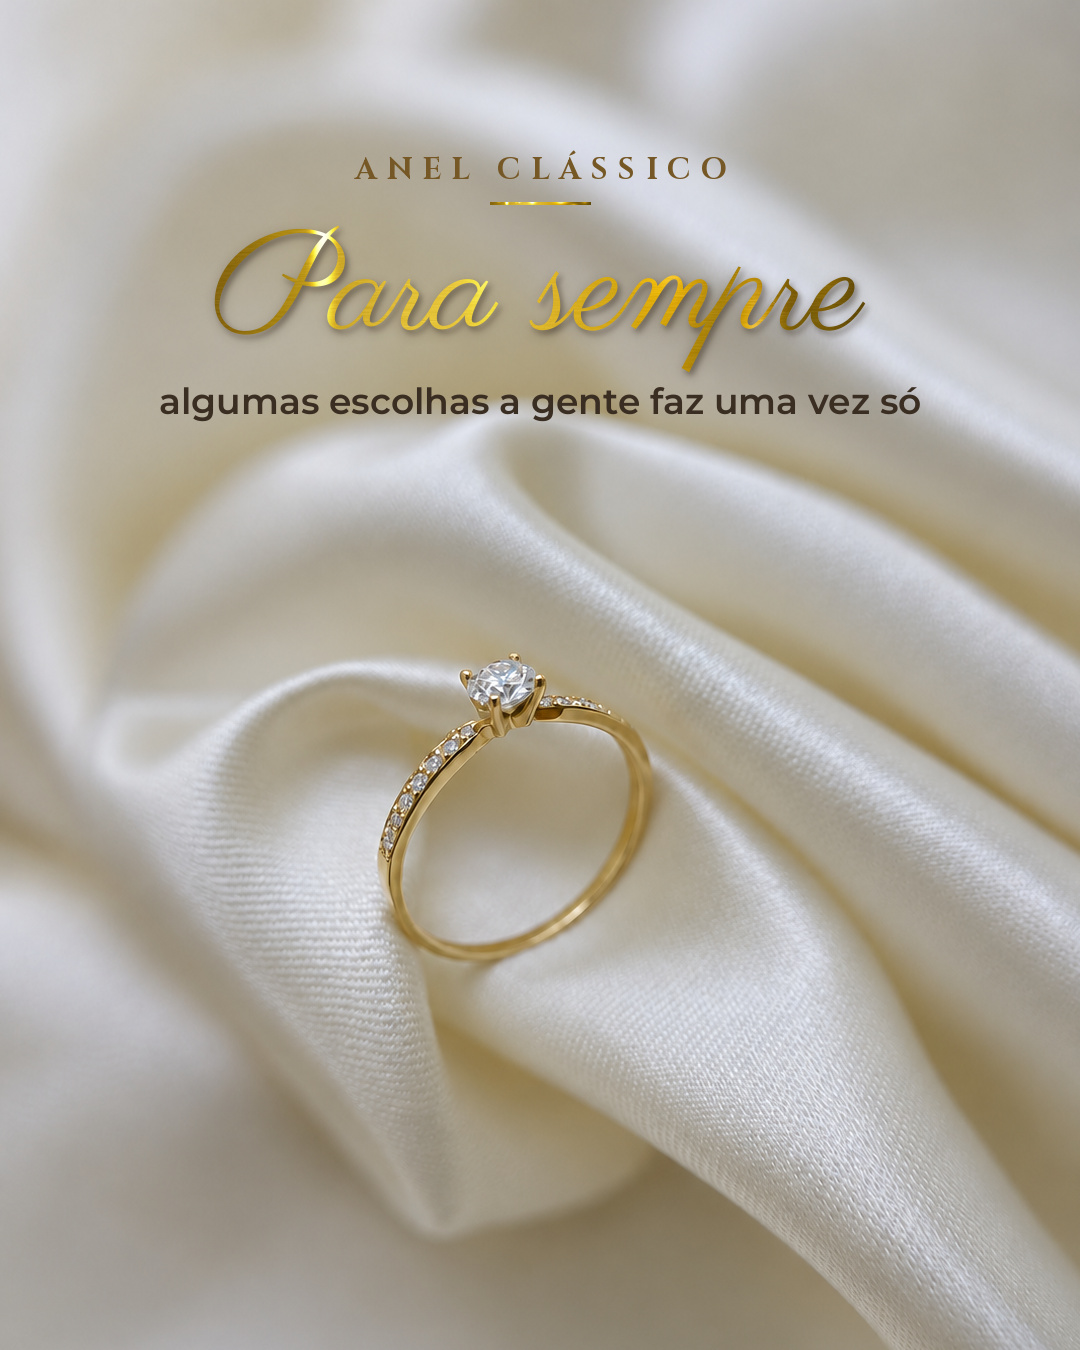
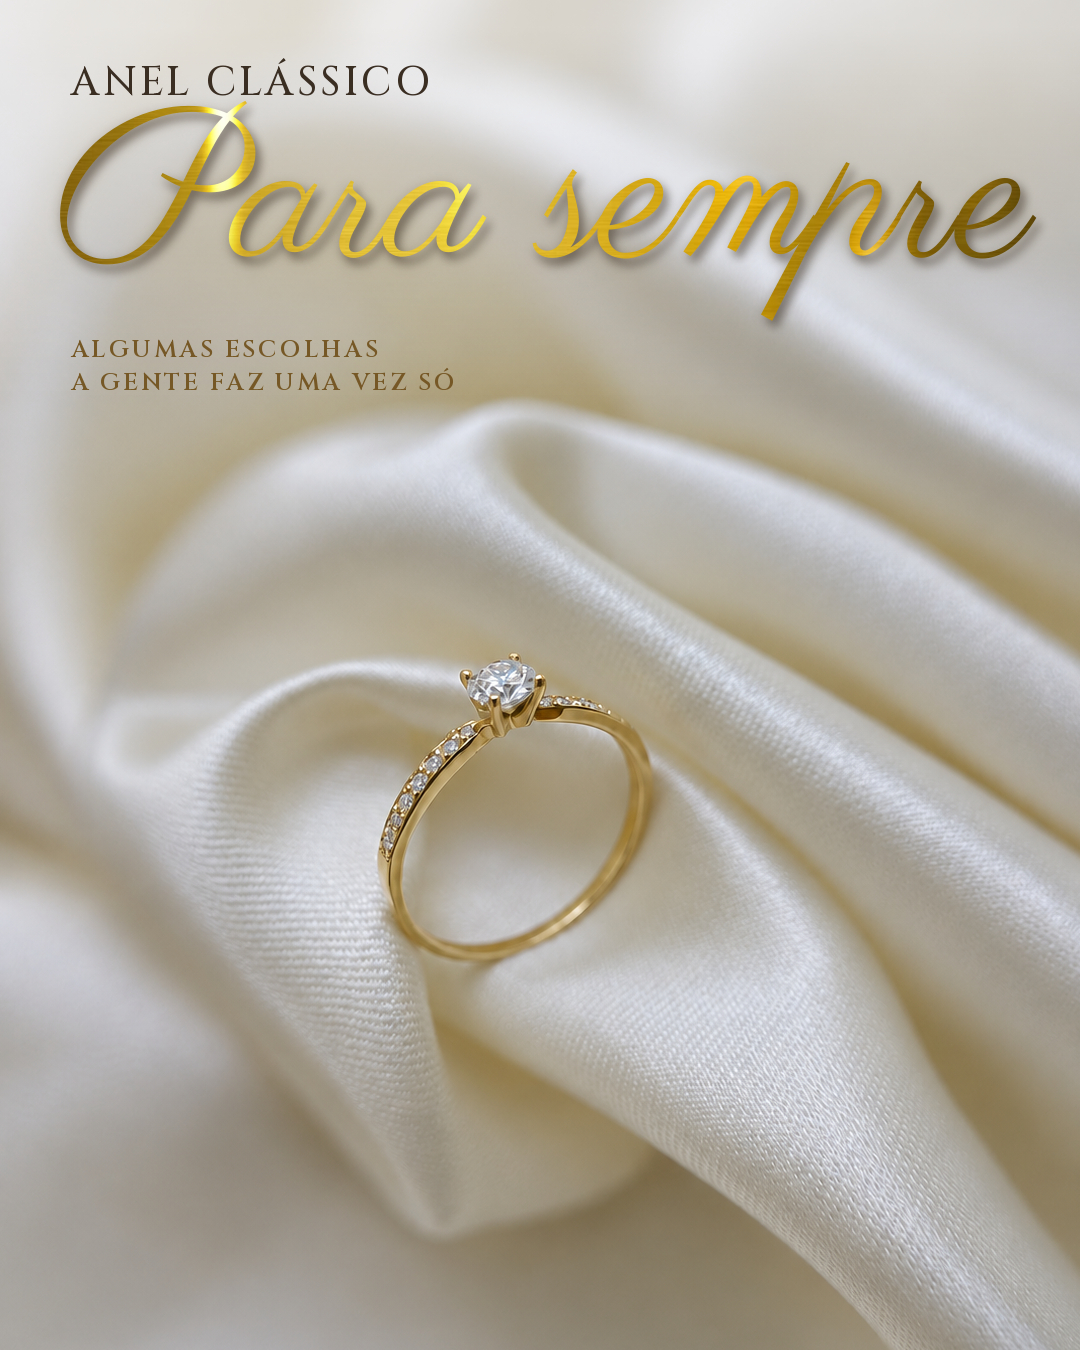
Anel clássico: padrão aprovado (Cinzel à esquerda + Parisienne grande com textura), fotos só recortadas
Claude-Session: https://claude.ai/code/session_01RLP9fKwVsDi588D8MrznBA

Changed region(s): [[0.0, 0.0, 1.0, 0.3111]]

diff --git a/anel-classico/anel_classico.py b/anel-classico/anel_classico.py
@@ -25,13 +25,29 @@ def rule(im, y, half=50):
     m = Image.new('L', im.size, 0); ImageDraw.Draw(m).line([(im.width / 2 - half, y), (im.width / 2 + half, y)], fill=255, width=3); im.alpha_composite(gold_fill(m))
 
 
-def photo_slide(name, kicker, script, line, top=150):
+M = 64
+
+
+def band_top(im, a0=0.02, a1=0.30, strength=0.6):
+    """Approved light ivory band from the top (as in the Helena post) so the gold reads."""
+    import numpy as np
+    yy = np.arange(H, dtype=np.float32)[:, None] / H
+    a = np.clip((a1 - yy) / (a1 - a0), 0, 1) ** 1.2 * strength
+    lay = Image.new('RGBA', (W, H), (250, 248, 244, 0)); lay.putalpha(Image.fromarray((np.broadcast_to(a, (H, W)) * 255).astype('uint8')))
+    im.alpha_composite(lay)
+
+
+def photo_slide(name, caps, script, phrase, size=210):
+    """Approved feed composition: Cinzel caps left-aligned right above the big Parisienne word, one block."""
     src = Image.open(D + name).convert('RGB')
-    im = src.crop((3, 0, 3 + W, H)).convert('RGBA')          # native pixels: 1086x1448 -> 1080x1350 (crop only)
-    y = C(im, solid_text(kicker, caps_font(30, 700), BR, 10), top)
-    rule(im, y + 24)
-    y = C(im, shadowed(gold_text(script, script_font(140))), y + 46)
-    C(im, solid_text(line, sans(36, 600), INK), y + 14)
+    im = src.crop((3, 0, 3 + W, H)).convert('RGBA')          # native pixels, crop only
+    band_top(im)
+    y = 58
+    c = solid_text(caps, caps_font(40, 500), INK, 3); paste(im, c, M + 6, y)
+    sc = shadowed(gold_text(script, script_font(size))); paste(im, sc, M - 4, y + ink_size(c)[1] + 4)
+    yp = y + ink_size(c)[1] + 4 + ink_size(sc)[1] + 18
+    for line in phrase:
+        t = solid_text(line, caps_font(24, 600), BR, 3); paste(im, t, M + 6, yp); yp += ink_size(t)[1] + 10
     return im
 
 
@@ -40,19 +56,18 @@ def editorial():
     im = Image.new('RGBA', (W, H), IV + (255,))
     src = Image.open(D + 'menina-brinco.png').convert('RGB')
     pw, ph = 960, 1010
-    k = pw / src.width                                         # 0.885: downscale only
-    s = src.resize((pw, round(src.height * k)), Image.LANCZOS).crop((0, 20, pw, 20 + ph))
+    s = src.crop((70, 20, 70 + pw, 20 + ph))                   # native pixels: crop only, no resize
     x0, y0 = (W - pw) // 2, 60
     fr = Image.new('L', (W, H), 0); ImageDraw.Draw(fr).rectangle([x0 - 10, y0 - 10, x0 + pw + 9, y0 + ph + 9], outline=255, width=2); im.alpha_composite(gold_fill(fr))
     im.paste(s, (x0, y0))
     y = C(im, solid_text('TENDÊNCIAS PASSAM.', caps_font(30, 700), BR, 10), y0 + ph + 34)
-    y = C(im, shadowed(gold_text('Joias ficam.', script_font(118))), y + 6)
-    C(im, solid_text('use joias que durem · garantia vitalícia', sans(30, 600), SOFT), y + 8)
+    y = C(im, shadowed(gold_text('Joias ficam.', script_font(124))), y + 4)
+    C(im, solid_text('USE JOIAS QUE DUREM · GARANTIA VITALÍCIA', caps_font(22, 600), SOFT, 3), y + 10)
     return im
 
 
 if __name__ == '__main__':
-    photo_slide('classico-1.png', 'ANEL CLÁSSICO', 'Para sempre', 'algumas escolhas a gente faz uma vez só').convert('RGB').save(D + '01-anel-classico.jpg', quality=95, subsampling=0)
-    photo_slide('classico-2.png', 'ANEL CLÁSSICO', 'Delicado', 'no dedo, eterno na história').convert('RGB').save(D + '02-anel-classico.jpg', quality=95, subsampling=0)
-    editorial().convert('RGB').save(D + 'joias-que-ficam.jpg', quality=95, subsampling=0)
+    photo_slide('classico-1.png', 'ANEL CLÁSSICO', 'Para sempre', ['ALGUMAS ESCOLHAS', 'A GENTE FAZ UMA VEZ SÓ']).convert('RGB').save(D + '01-anel-classico.jpg', quality=100, subsampling=0)
+    photo_slide('classico-2.png', 'ANEL CLÁSSICO', 'Delicado', ['NO DEDO,', 'ETERNO NA HISTÓRIA']).convert('RGB').save(D + '02-anel-classico.jpg', quality=100, subsampling=0)
+    editorial().convert('RGB').save(D + 'joias-que-ficam.jpg', quality=100, subsampling=0)
     print('ok')
